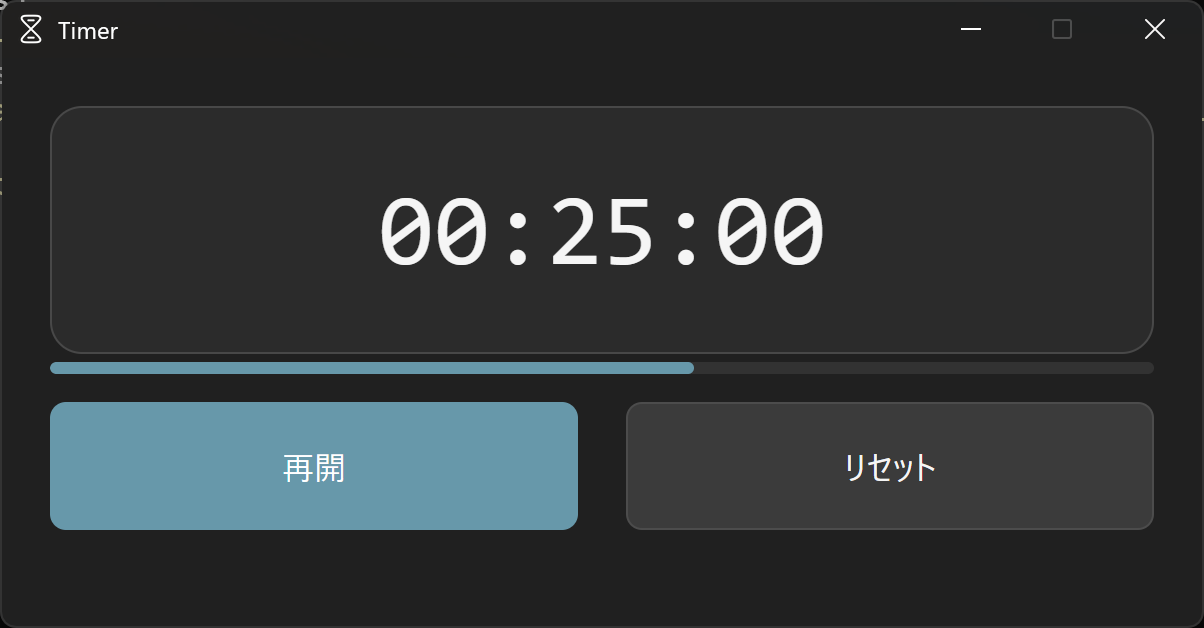
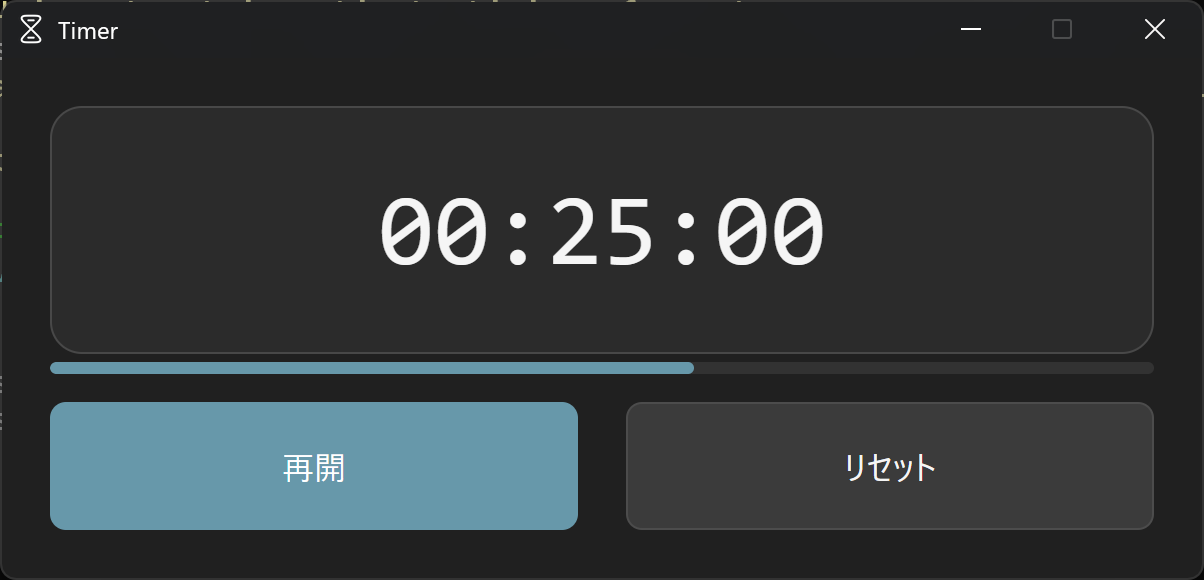
Update the README screenshot for the new window height

diff --git a/README.md b/README.md
@@ -2,7 +2,7 @@
 
 Windows / macOS 用のシンプルなカウントダウンタイマーです（Tauri v2）。
 
-<img src="docs/screenshot.png" alt="Timer のウィンドウ。残り 00:25:00 で一時停止していて、進み具合のバーと「再開」「リセット」のボタンがある" width="602" />
+<img src="docs/screenshot.png" alt="Timer のウィンドウ。残り 00:25:00 で一時停止していて、進み具合のバーと「再開」「リセット」のボタンがある" width="602" height="290" />
 
 ## 機能
 
